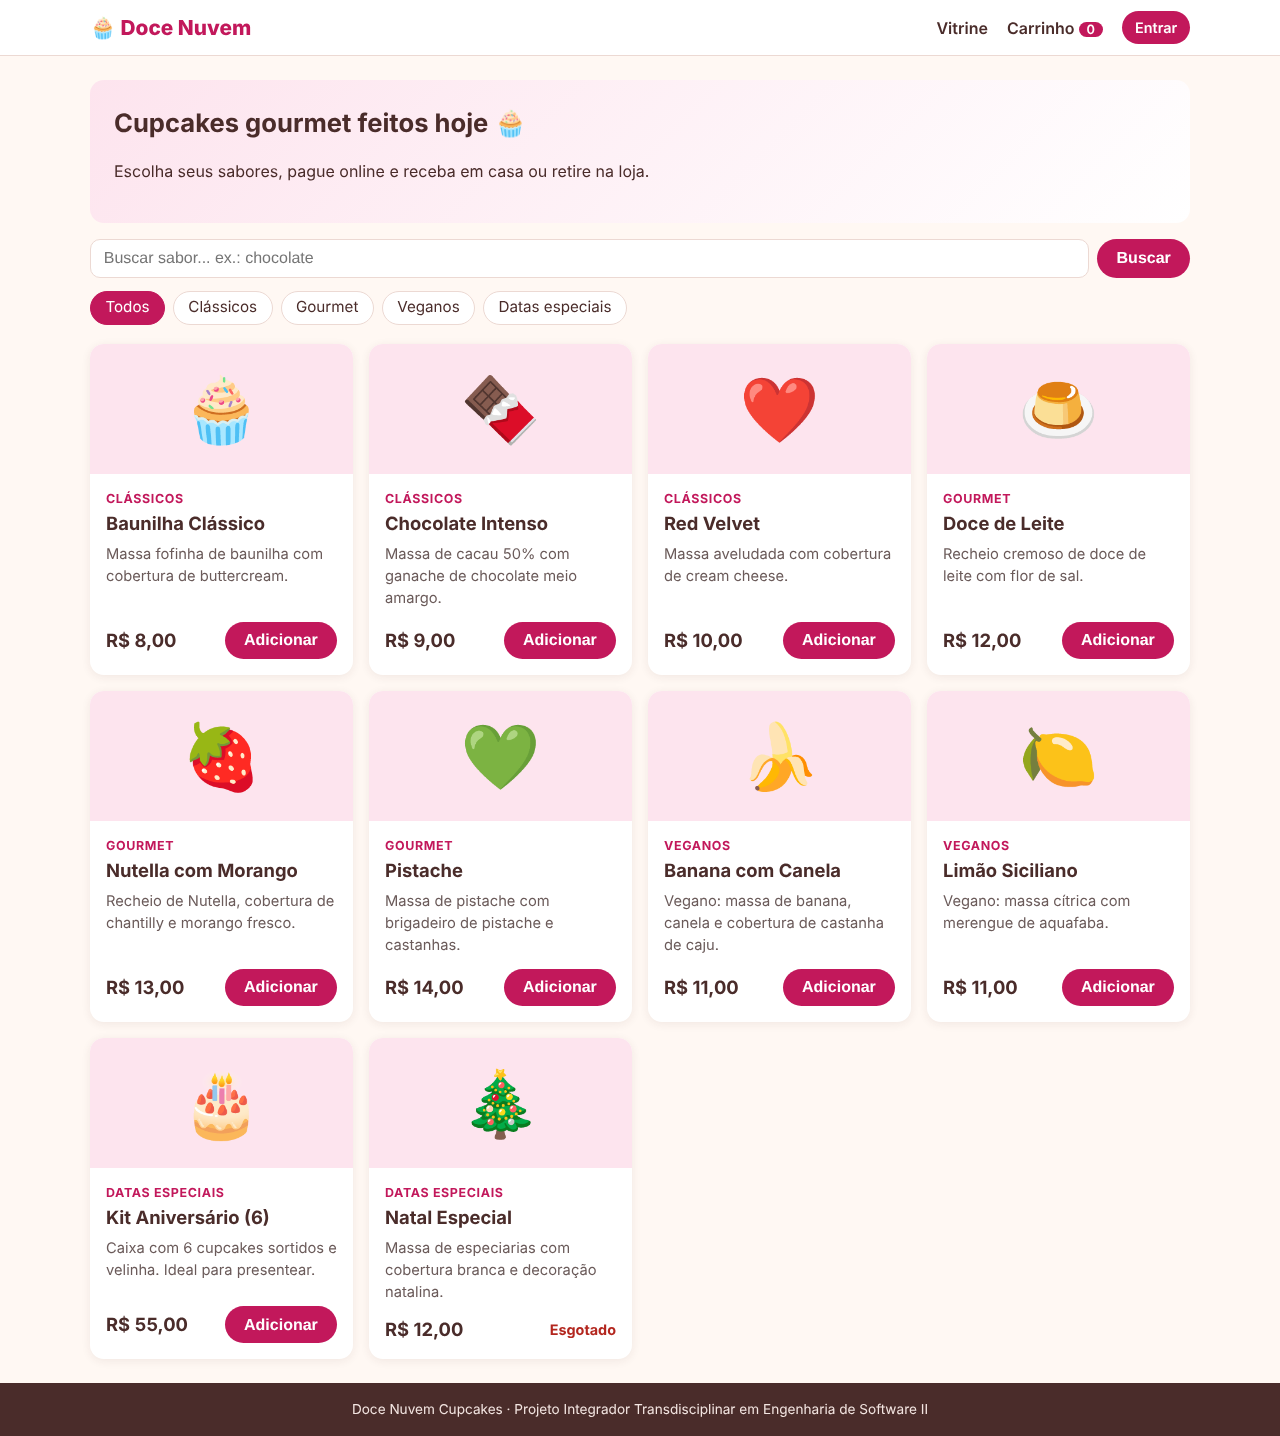
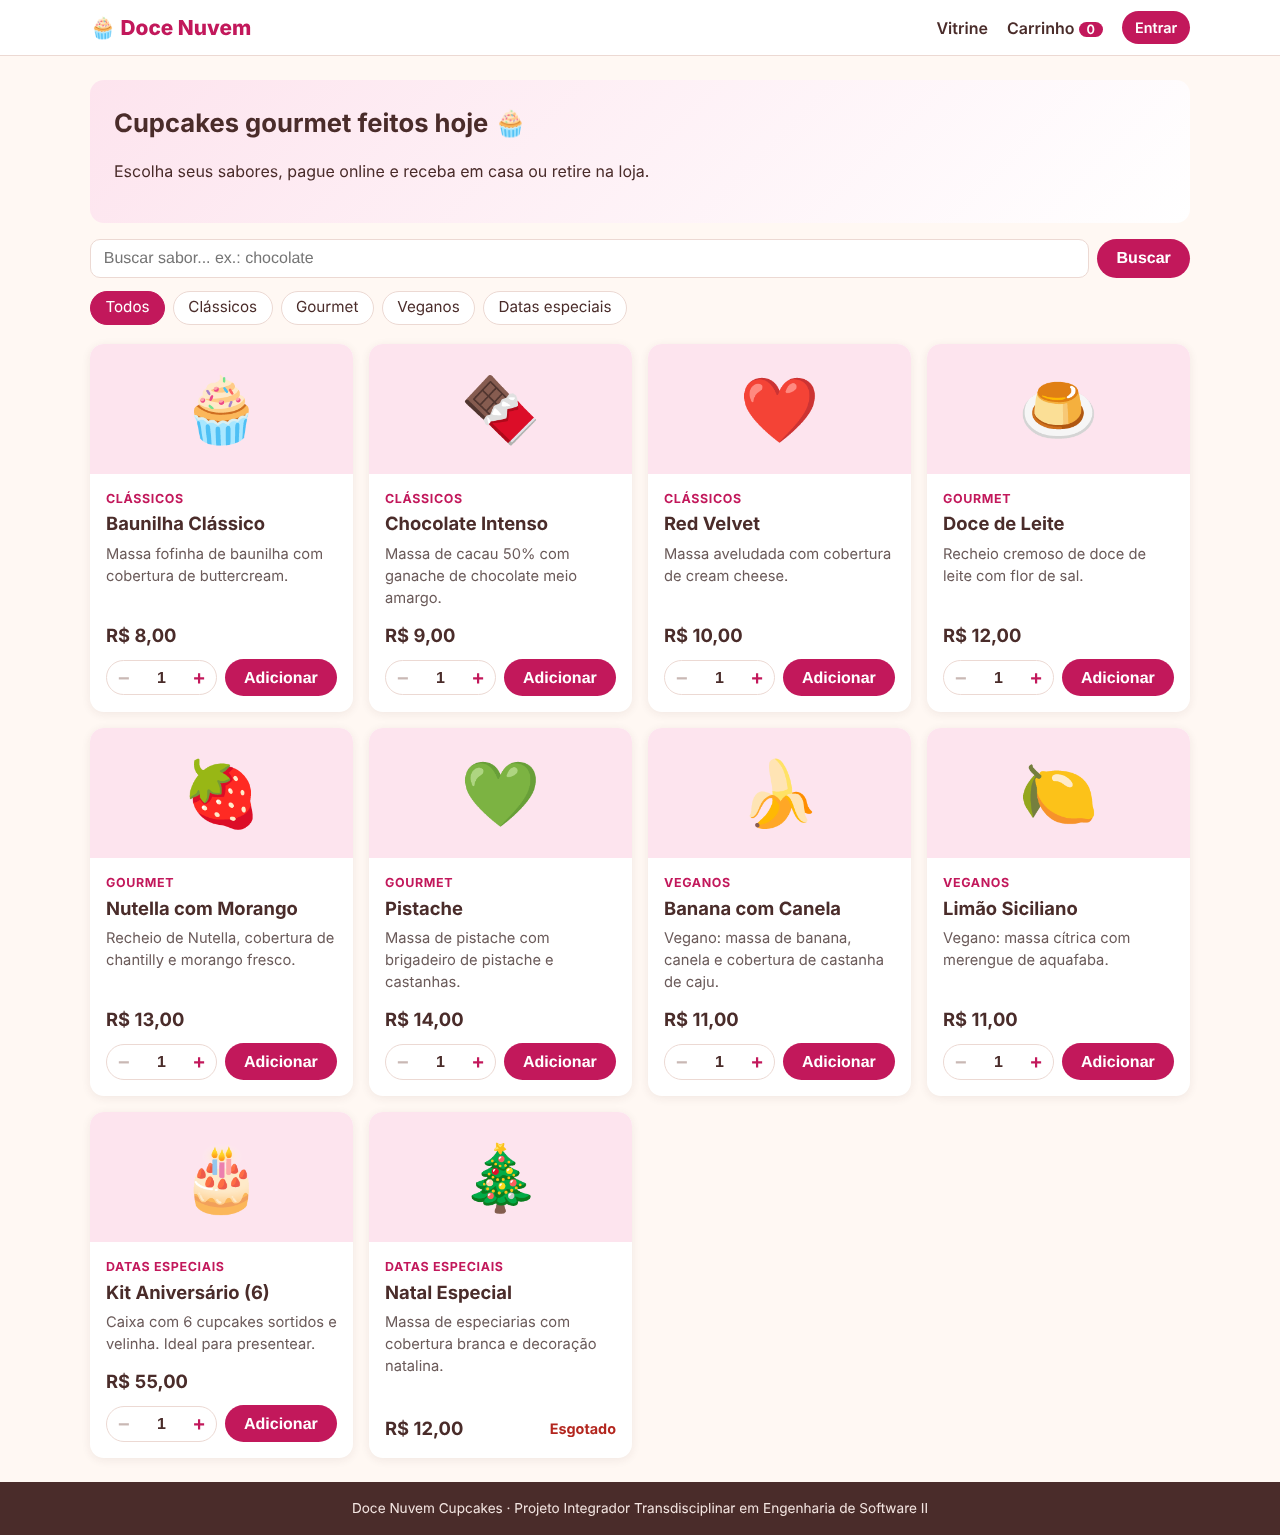
Add files via upload

diff --git a/app/static/css/style.css b/app/static/css/style.css
@@ -68,6 +68,12 @@ h2 { font-size: 1.15rem; }
 .alerta-aviso { background: var(--amarelo-claro); border-color: #c99400; }
 .fechar { background: none; border: 0; font-size: 1.3rem; cursor: pointer; color: inherit; }
 
+/* Aviso flutuante (FB-03): aparece por cima quando a página volta para o cupcake */
+.mensagens.flutuante { position: fixed; top: 72px; left: 50%; transform: translateX(-50%);
+  width: min(560px, calc(100% - 2rem)); z-index: 20; box-shadow: 0 6px 20px rgba(74, 44, 42, .18);
+  border-radius: 10px; transition: opacity .4s; }
+.mensagens.flutuante.sumindo { opacity: 0; }
+
 /* Vitrine */
 .destaque { background: linear-gradient(135deg, var(--rosa-claro), #fff); border-radius: var(--raio); padding: 1.5rem; margin-bottom: 1rem; }
 .destaque h1 { margin: 0 0 .3rem; }
@@ -77,14 +83,24 @@ h2 { font-size: 1.15rem; }
 .tag { padding: .3rem .9rem; border-radius: 99px; background: #fff; border: 1px solid var(--borda); text-decoration: none; color: var(--chocolate); font-size: .95rem; }
 .tag.ativa { background: var(--rosa); color: #fff; border-color: var(--rosa); }
 .grade { display: grid; grid-template-columns: repeat(auto-fill, minmax(230px, 1fr)); gap: 1rem; }
-.cartao-produto { background: #fff; border-radius: var(--raio); box-shadow: var(--sombra); overflow: hidden; display: flex; flex-direction: column; }
+.cartao-produto { scroll-margin-top: 90px; background: #fff; border-radius: var(--raio); box-shadow: var(--sombra); overflow: hidden; display: flex; flex-direction: column; }
 .imagem-produto { display: grid; place-items: center; font-size: 4rem; height: 130px; background: var(--rosa-claro); text-decoration: none; }
 .cartao-produto .info { padding: 1rem; display: flex; flex-direction: column; flex: 1; }
 .cartao-produto h2 { margin: .1rem 0 .3rem; }
 .cartao-produto h2 a { color: var(--chocolate); text-decoration: none; }
 .cartao-produto p { color: var(--cinza); font-size: .92rem; flex: 1; margin: 0 0 .8rem; }
 .categoria { font-size: .78rem; text-transform: uppercase; letter-spacing: .05em; color: var(--rosa); font-weight: 700; }
-.linha-preco { display: flex; justify-content: space-between; align-items: center; }
+.linha-preco { display: flex; justify-content: space-between; align-items: center; flex-wrap: wrap; gap: .6rem; }
+/* FB-04: escolher a quantidade antes de adicionar */
+.form-adicionar { display: flex; align-items: center; gap: .5rem; }
+.seletor-qtd { display: inline-flex; align-items: center; border: 1.5px solid var(--borda); border-radius: 99px; background: #fff; }
+.seletor-qtd button { width: 2.1rem; height: 2.1rem; border: 0; background: none; font-size: 1.25rem; line-height: 1;
+  color: var(--rosa); cursor: pointer; border-radius: 99px; font-weight: 700; }
+.seletor-qtd button:hover { background: var(--rosa-claro); }
+.seletor-qtd button:disabled { color: #c9b8b4; cursor: default; background: none; }
+.seletor-qtd input { width: 2.6rem !important; border: 0; padding: .3rem 0; text-align: center; font-weight: 700; background: none;
+  -moz-appearance: textfield; }
+.seletor-qtd input::-webkit-outer-spin-button, .seletor-qtd input::-webkit-inner-spin-button { -webkit-appearance: none; margin: 0; }
 .preco { font-size: 1.15rem; }
 .preco.grande { font-size: 1.8rem; font-weight: 800; margin: .5rem 0; }
 .esgotado { color: var(--vermelho); font-weight: 700; font-size: .9rem; }

diff --git a/app/static/js/main.js b/app/static/js/main.js
@@ -17,6 +17,34 @@
     b.addEventListener("click", () => b.closest(".alerta").remove())
   );
 
+  // FB-03: ao voltar para um cupcake da vitrine (#produto-N), a mensagem aparece flutuando
+  // na tela, para a pessoa ver o aviso sem precisar subir a página
+  const avisos = document.querySelector(".mensagens");
+  if (avisos && /^#produto-\d+$/.test(window.location.hash)) {
+    avisos.classList.add("flutuante");
+    setTimeout(() => avisos.classList.add("sumindo"), 3500);
+    setTimeout(() => avisos.remove(), 4000);
+  }
+
+  // FB-04: botões − e + para escolher a quantidade antes de adicionar ao carrinho
+  document.querySelectorAll("[data-seletor]").forEach((seletor) => {
+    const campo = seletor.querySelector("input");
+    const menos = seletor.querySelector("[data-menos]");
+    const mais = seletor.querySelector("[data-mais]");
+    const min = parseInt(campo.min || "1", 10);
+    const max = parseInt(campo.max || "99", 10);
+    function ajustar(valor) {
+      const n = Math.min(max, Math.max(min, parseInt(valor, 10) || min));
+      campo.value = n;
+      menos.disabled = n <= min;
+      mais.disabled = n >= max;
+    }
+    menos.addEventListener("click", () => ajustar(parseInt(campo.value, 10) - 1));
+    mais.addEventListener("click", () => ajustar(parseInt(campo.value, 10) + 1));
+    campo.addEventListener("change", () => ajustar(campo.value));
+    ajustar(campo.value);
+  });
+
   // Confirmação antes de ações que não têm volta (ex.: cancelar pedido)
   document.querySelectorAll("form[data-confirmar]").forEach((form) =>
     form.addEventListener("submit", (e) => {

diff --git a/app/templates/loja/vitrine.html b/app/templates/loja/vitrine.html
@@ -23,7 +23,7 @@
 {% if produtos %}
 <div class="grade">
   {% for p in produtos %}
-  <article class="cartao-produto">
+  <article class="cartao-produto" id="produto-{{ p.id_produto }}">
     <a href="{{ url_for('loja.detalhe', id_produto=p.id_produto) }}" class="imagem-produto" aria-hidden="true" tabindex="-1">{{ p.imagem }}</a>
     <div class="info">
       <span class="categoria">{{ p.categoria }}</span>
@@ -32,8 +32,14 @@
       <div class="linha-preco">
         <strong class="preco">{{ p.preco | moeda }}</strong>
         {% if p.estoque > 0 %}
-          <form method="post" action="{{ url_for('carrinho.adicionar', id_produto=p.id_produto) }}">
-            <input type="hidden" name="quantidade" value="1">
+          <form method="post" action="{{ url_for('carrinho.adicionar', id_produto=p.id_produto) }}" class="form-adicionar">
+            <div class="seletor-qtd" data-seletor>
+              <button type="button" data-menos aria-label="Diminuir quantidade de {{ p.nome }}">−</button>
+              <input type="number" name="quantidade" value="1" min="1" max="{{ p.estoque }}"
+                     inputmode="numeric" aria-label="Quantidade de {{ p.nome }}">
+              <button type="button" data-mais aria-label="Aumentar quantidade de {{ p.nome }}">+</button>
+            </div>
+            <input type="hidden" name="ancora" value="produto-{{ p.id_produto }}">
             <button class="botao" type="submit">Adicionar</button>
           </form>
         {% else %}

diff --git a/app/templates/loja/produto.html b/app/templates/loja/produto.html
@@ -13,7 +13,11 @@
       <p class="estoque">{{ produto.estoque }} disponíveis hoje</p>
       <form method="post" action="{{ url_for('carrinho.adicionar', id_produto=produto.id_produto) }}" class="form-linha">
         <label for="quantidade">Quantidade</label>
-        <input id="quantidade" type="number" name="quantidade" value="1" min="1" max="{{ produto.estoque }}" required>
+        <div class="seletor-qtd" data-seletor>
+          <button type="button" data-menos aria-label="Diminuir quantidade">−</button>
+          <input id="quantidade" type="number" name="quantidade" value="1" min="1" max="{{ produto.estoque }}" inputmode="numeric" required>
+          <button type="button" data-mais aria-label="Aumentar quantidade">+</button>
+        </div>
         <button class="botao" type="submit">Adicionar ao carrinho</button>
       </form>
     {% else %}

diff --git a/tests/test_rotas.py b/tests/test_rotas.py
@@ -96,3 +96,34 @@ def test_admin_cadastra_produto_invalido(client):
     resp = client.post("/admin/produtos/novo", data={"nome": "X", "preco": "0", "estoque": "1",
                                                      "id_categoria": "1"})
     assert resp.status_code == 400 and "maior que zero" in texto(resp)
+
+
+def test_adicionar_volta_para_o_mesmo_cupcake(client):
+    """FB-03: depois de adicionar, a página volta para o cupcake, e não para o topo."""
+    resp = client.post("/carrinho/adicionar/7", data={"quantidade": 1, "ancora": "produto-7"},
+                       headers={"Referer": "http://localhost/?categoria=3"})
+    assert resp.status_code == 302
+    assert resp.headers["Location"].endswith("/?categoria=3#produto-7")
+    assert 'id="produto-7"' in texto(client.get("/"))
+
+
+def test_ancora_invalida_e_ignorada(client):
+    resp = client.post("/carrinho/adicionar/7", data={"quantidade": 1, "ancora": "javascript:alert(1)"},
+                       headers={"Referer": "http://localhost/"})
+    assert "#" not in resp.headers["Location"]
+
+
+def test_vitrine_tem_seletor_de_quantidade(client):
+    """FB-04: a vitrine mostra os botões − e + em cada cupcake disponível."""
+    pagina = texto(client.get("/"))
+    assert pagina.count("data-seletor") == 9          # 10 cupcakes, 1 esgotado
+    assert 'aria-label="Aumentar quantidade de Red Velvet"' in pagina
+
+
+def test_adicionar_varias_unidades_de_uma_vez(client):
+    """FB-04: escolher 2 unidades na vitrine coloca 2 no carrinho."""
+    resp = client.post("/carrinho/adicionar/3", data={"quantidade": 2, "ancora": "produto-3"},
+                       follow_redirects=True)
+    assert "2 cupcakes adicionados ao carrinho" in texto(resp)
+    carrinho = texto(client.get("/carrinho/"))
+    assert 'value="2"' in carrinho and "R$ 20,00" in carrinho

diff --git a/app/controllers/carrinho_controller.py b/app/controllers/carrinho_controller.py
@@ -1,4 +1,6 @@
 """Controller do carrinho de compras."""
+import re
+
 from flask import Blueprint, current_app, flash, redirect, render_template, request, session, url_for
 
 from app.models import carrinho as carrinho_model
@@ -24,10 +26,18 @@ def adicionar(id_produto):
     quantidade = request.form.get("quantidade", 1, type=int) or 1
     try:
         session["carrinho"] = carrinho_model.adicionar(_carrinho(), id_produto, quantidade)
-        flash("Cupcake adicionado ao carrinho! 🧁", "sucesso")
+        if quantidade == 1:
+            flash("Cupcake adicionado ao carrinho! 🧁", "sucesso")
+        else:
+            flash(f"{quantidade} cupcakes adicionados ao carrinho! 🧁", "sucesso")
     except ErroNegocio as e:
         flash(str(e), "erro")
-    return redirect(request.referrer or url_for("loja.vitrine"))
+    destino = request.referrer or url_for("loja.vitrine")
+    # FB-03: volta para o mesmo cupcake na vitrine, em vez de pular para o topo da página
+    ancora = request.form.get("ancora", "")
+    if re.fullmatch(r"produto-\d+", ancora):
+        destino = destino.split("#")[0] + "#" + ancora
+    return redirect(destino)
 
 
 @bp.route("/atualizar/<int:id_produto>", methods=["POST"])

diff --git a/docs/situacao-3-testes/04-melhorias-aplicadas.md b/docs/situacao-3-testes/04-melhorias-aplicadas.md
@@ -1,29 +1,36 @@
 # Feedback dos testadores e melhorias aplicadas
 
-Preencha esta tabela com o que os 5 testadores relataram. Para cada item, decida se faz sentido corrigir agora, e registre o que foi feito.
+Os colegas de curso foram convidados, mas não responderam até o prazo. O sistema foi então testado por **4 usuários externos ao curso**, que receberam o link, o roteiro de teste do [formulário](03-formulario-teste-usuarios.md) e responderam por mensagem, com prints e vídeos da tela. Todos testaram no celular.
 
 ## Resumo dos testes
 
-| # | Testador | Data | Nota (1–5) | Funcionou | Não funcionou | Não testou |
-|---|---|---|---|---|---|---|
-| 1 | | | | | | |
-| 2 | | | | | | |
-| 3 | | | | | | |
-| 4 | | | | | | |
-| 5 | | | | | | |
+| # | Testador | Data | Funcionou | Não funcionou | Não testou |
+|---|---|---|---|---|---|
+| 1 | Katharina | 17/11/2026 | Cadastro, pedido, confirmação e cancelamento | Nada | Área da loja; dados inválidos |
+| 2 | Carvalho | 17/11/2026 | Cadastro, carrinho, cartão válido e inválido, login da loja, mudança de status. Achou o site intuitivo e organizado | Nada | Cancelamento; busca e filtro; retirada; PIX e dinheiro |
+| 3 | Ju | 17/11/2026 | Cadastro, carrinho com aviso, cartão inválido recusado, cartão de teste aprovado, cancelamento e conferência na área da loja (pedido aparece como Cancelado / Estornado). Elogiou o design e o layout | Ao adicionar um cupcake, a página voltava para o topo toda vez | Busca e filtro; retirada; PIX e dinheiro |
+| 4 | Ser | 17/11/2026 | Carrinho e aviso de pedido mínimo, atualizar quantidade no carrinho, mensagens de cartão com menos de 16 dígitos e de validade inválida, pedido com entrega e observação, cancelamento, Meus pedidos | Na vitrine, o botão Adicionar coloca 1 unidade direto e não deixa escolher a quantidade antes. Sugeriu botões de + e − | Busca e filtro; área da loja; retirada; PIX e dinheiro |
 
 ## Problemas e sugestões recebidos
 
-| ID | Testador | Relato | Tipo (bug / sugestão) | Decisão | O que foi feito | Status |
+| ID | Testador | Relato | Tipo | Decisão | O que foi feito | Status |
 |---|---|---|---|---|---|---|
-| FB-01 | | | | Corrigir / Backlog / Não se aplica | | |
-| FB-02 | | | | | | |
-| FB-03 | | | | | | |
+| FB-01 | Katharina | Nenhum erro encontrado | — | — | — | Sem pendências |
+| FB-02 | Carvalho | Nenhum erro encontrado | — | — | — | Sem pendências |
+| FB-03 | Ju | “Eu adicionei um cupcake e ele me leva direto pra cima, toda vez que eu colocava um cupcake.” | Usabilidade | Corrigir | Cada cupcake da vitrine ganhou uma âncora (`#produto-N`). Depois de adicionar, o sistema volta exatamente para o cupcake clicado, e a mensagem “Cupcake adicionado ao carrinho!” aparece flutuando na tela e some sozinha em 4 segundos. Criados 2 testes automatizados novos. | ✅ Corrigido |
+| FB-04 | Ser | “Na hora de selecionar produtos ele já manda direto para o carrinho e não permite escolher a quantidade. Seria legal ter um botão de mais e menos para definir, por exemplo, duas unidades antes de adicionar.” | Usabilidade | Corrigir | Cada cupcake da vitrine (e a página de detalhe) ganhou um seletor de quantidade com botões − e +, limitado ao estoque disponível. A mensagem passou a dizer quantas unidades foram adicionadas (“2 cupcakes adicionados ao carrinho!”). Criados 2 testes automatizados novos. | ✅ Corrigido |
 
-**Critério de decisão:** bugs que impedem comprar ou pagar são corrigidos na hora. Sugestões que mudam o escopo (ex.: cupom de desconto) vão para o backlog futuro descrito em [01-escopo-e-historias.md](../situacao-1-planejamento/01-escopo-e-historias.md).
+**Critério de decisão:** bugs que impedem comprar ou pagar são corrigidos na hora; problemas de usabilidade que atrapalham o uso comum (como o FB-03 e o FB-04) também. Sugestões que mudam o escopo vão para o backlog futuro descrito em [01-escopo-e-historias.md](../situacao-1-planejamento/01-escopo-e-historias.md).
 
-## Bugs encontrados antes dos testadores (testes internos)
+![FB-03 corrigido](../imagens/18-fb03-volta-para-o-cupcake.png)
+
+![FB-04: escolher a quantidade](../imagens/19-fb04-escolher-quantidade.png) ![FB-04: duas unidades adicionadas](../imagens/20-fb04-duas-unidades-adicionadas.png)
+
+## Bugs e melhorias encontrados nos testes internos
 
 | ID | Descrição | Correção |
 |---|---|---|
-| BUG-01 | Botão "Criar conta" precisava de dois cliques depois de um envio com erros. | Mensagens de erro somem enquanto a pessoa digita; mensagens vazias não ocupam espaço. |
+| BUG-01 | Botão “Criar conta” precisava de dois cliques depois de um envio com erros. | Mensagens de erro somem enquanto a pessoa digita; mensagens vazias não ocupam espaço. |
+| MEL-01 | Data do pedido no fuso UTC e no formato americano. | Hora local e formato brasileiro (17/11/2026 14:05). |
+| MEL-02 | Forma de pagamento aparecia como código (CARTAO) na área da loja. | Nome por extenso (Cartão de crédito, PIX, Dinheiro na entrega). |
+| MEL-03 | Site só ficava no ar com o Codespaces aberto. | Publicado no PythonAnywhere: https://heloizajb.pythonanywhere.com |

diff --git a/docs/situacao-3-testes/01-plano-e-resultados-dos-testes.md b/docs/situacao-3-testes/01-plano-e-resultados-dos-testes.md
@@ -4,7 +4,7 @@ Seguindo o **Modelo V** do material da disciplina, cada nível de desenvolviment
 
 | Desenvolvimento (verificação) | Teste correspondente (validação) | Como foi feito aqui |
 |---|---|---|
-| Requisitos (histórias US01–US20) | **Teste de aceitação** | Testes feitos por 5 colegas com o formulário ([03-formulario-teste-usuarios.md](03-formulario-teste-usuarios.md)). |
+| Requisitos (histórias US01–US20) | **Teste de aceitação** | Testes feitos por 4 usuários externos, com o roteiro do formulário ([03-formulario-teste-usuarios.md](03-formulario-teste-usuarios.md)). |
 | Análise (casos de uso) | **Teste de sistema** | Roteiro manual de ponta a ponta no navegador (seção 3). |
 | Arquitetura (MVC) | **Teste de integração** | `tests/test_rotas.py`: simula o navegador passando por Controller + Model + View + banco. |
 | Código | **Teste unitário** | `tests/test_models.py`: testa cada regra de negócio isoladamente. |
@@ -38,9 +38,11 @@ A verificação confere se o software foi construído **de acordo com a especifi
 
 ## 2. Testes automatizados (unitários e de integração)
 
-**Ferramenta:** pytest · **Comando:** `pytest` · **Resultado:** ✅ **47 testes, 47 aprovados, 0 falhas**
+**Ferramenta:** pytest · **Comando:** `pytest` · **Resultado:** ✅ **51 testes, 51 aprovados, 0 falhas**
 
 Cada teste roda num banco de dados novo e temporário, então um teste não interfere no outro.
+
+![Execução do pytest](../imagens/17-testes-pytest.png)
 
 ### Unitários – `tests/test_models.py` (35 testes)
 
@@ -52,7 +54,7 @@ Cada teste roda num banco de dados novo e temporário, então um teste não inte
 | TestPagamento | Algoritmo de Luhn, cartão válido, cartão inválido (5 casos), formas de pagamento | 8 | ✅ |
 | TestPedido | Pedido completo, mínimo, endereço, retirada, cartão recusado, fluxo de status, cancelar | 8 | ✅ |
 
-### Integração – `tests/test_rotas.py` (12 testes)
+### Integração – `tests/test_rotas.py` (16 testes)
 
 | Teste | Cenário | Resultado |
 |---|---|---|
@@ -68,6 +70,10 @@ Cada teste roda num banco de dados novo e temporário, então um teste não inte
 | test_cliente_nao_ve_pedido_de_outro | Pedido de outro cliente retorna 404 | ✅ |
 | test_admin_avanca_status | Admin muda o pedido para "Em preparo" | ✅ |
 | test_admin_cadastra_produto_invalido | Preço zero é recusado | ✅ |
+| test_adicionar_volta_para_o_mesmo_cupcake | FB-03: após adicionar, a página volta para o cupcake (não para o topo) | ✅ |
+| test_ancora_invalida_e_ignorada | FB-03: só aceita âncoras no formato `produto-N` (segurança) | ✅ |
+| test_vitrine_tem_seletor_de_quantidade | FB-04: cada cupcake disponível tem os botões − e + | ✅ |
+| test_adicionar_varias_unidades_de_uma_vez | FB-04: escolher 2 unidades na vitrine coloca 2 no carrinho | ✅ |
 
 ## 3. Teste de sistema (manual, no navegador)
 

diff --git a/docs/situacao-3-testes/02-roteiro-do-video.md b/docs/situacao-3-testes/02-roteiro-do-video.md
@@ -10,7 +10,7 @@
 | 1:40–2:20 | Cadastro com erro e depois certo | "Se a pessoa erra o cadastro, o sistema mostra o erro embaixo de cada campo. Corrigindo, a conta é criada e ela já entra logada." |
 | 2:20–3:20 | Carrinho → mínimo → checkout → cartão errado → cartão certo | "O pedido mínimo é de R$ 20. No checkout, ao escolher retirada o total muda na hora. Se o cartão for inválido o pedido não é criado. Com o cartão de teste, o pedido é confirmado." |
 | 3:20–4:00 | Login admin → avançar status → voltar ao cliente | "A loja entra como administradora, vê os pedidos e avança o status. O cliente acompanha pela linha do tempo." |
-| 4:00–4:30 | Terminal rodando `pytest` | "Fiz 47 testes automatizados com pytest, unitários e de integração, e todos passaram." |
+| 4:00–4:30 | Terminal rodando `pytest` | "Fiz 51 testes automatizados com pytest, unitários e de integração, e todos passaram." |
 | 4:30–5:00 | `04-melhorias-aplicadas.md` | "Cinco colegas testaram o sistema pelo formulário. As principais mudanças a partir do feedback foram: [citar 1 ou 2]. Obrigada!" |
 
 **Dica:** se o vídeo passar de 5 minutos, encurte a parte do código; o mais importante é mostrar o sistema funcionando.

diff --git a/README.md b/README.md
@@ -3,7 +3,7 @@
 Loja virtual de cupcakes gourmet com **vitrine, pedido eletrônico, pagamento e entrega**.
 
 Projeto Integrador Transdisciplinar em Engenharia de Software II, Universidade Cruzeiro do Sul.
-**Aluna:** Heloiza Janke Barbosa · **RGM:** 32446748
+**Aluna:** Heloiza ______________ · **RGM:** ______________
 
 ![Vitrine](docs/imagens/01-vitrine.png)
 
@@ -49,7 +49,7 @@ Cartão de teste: `4111 1111 1111 1111`, validade futura, qualquer CVV.
 pytest
 ```
 
-Resultado: **47 testes aprovados** (unitários e de integração).
+Resultado: **51 testes aprovados** (unitários e de integração).
 
 ## Documentação
 

diff --git a/docs/situacao-2-desenvolvimento/02-manual-de-uso.md b/docs/situacao-2-desenvolvimento/02-manual-de-uso.md
@@ -94,7 +94,7 @@ Em **Cupcakes** você vê todos os produtos, inclusive os que estão fora da vit
 ```
 pytest
 ```
-O resultado esperado é `47 passed`.
+O resultado esperado é `51 passed`.
 
 ## Recriar o banco do zero
 
